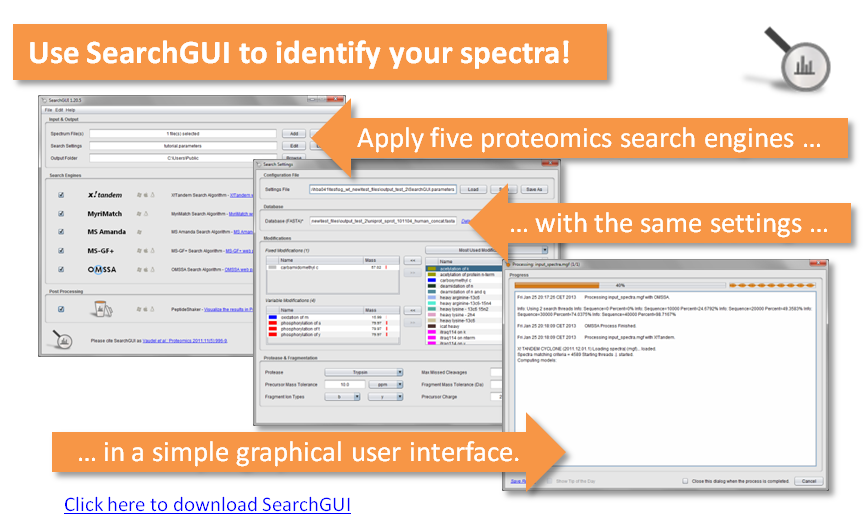
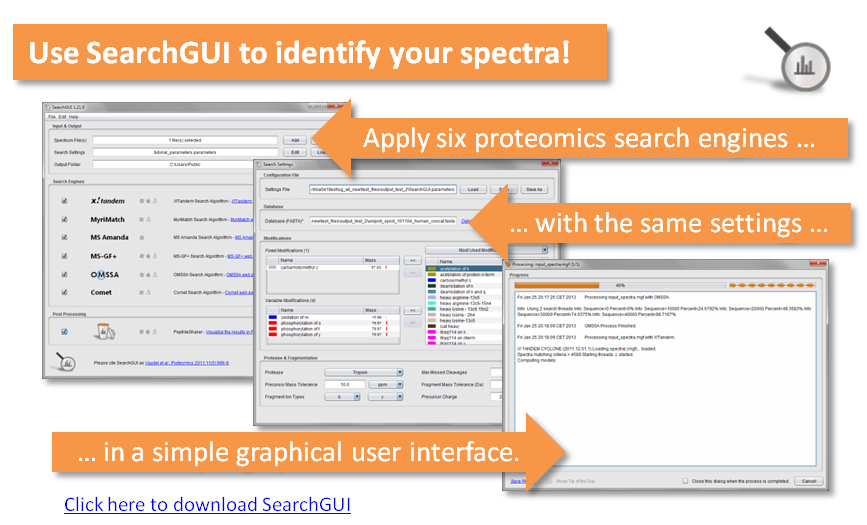
Fixed a bug in the New Project Dialog where canceling the unzipping still loaded the files. Updated the getting started slides to include Comet. Minor code and JavaDoc cleanups.

Changed region(s): [[0.0311, 0.1829, 0.4048, 0.7314], [0.4048, 0.2438, 0.9343, 0.3048]]

diff --git a/src/main/java/eu/isas/peptideshaker/utils/IdentificationFeaturesGenerator.java b/src/main/java/eu/isas/peptideshaker/utils/IdentificationFeaturesGenerator.java
@@ -11,7 +11,6 @@ import com.compomics.util.experiment.identification.SequenceFactory;
 import com.compomics.util.experiment.identification.matches.PeptideMatch;
 import com.compomics.util.experiment.identification.matches.ProteinMatch;
 import com.compomics.util.experiment.identification.matches.SpectrumMatch;
-import com.compomics.util.experiment.identification.ptm.PtmScore;
 import com.compomics.util.experiment.massspectrometry.Precursor;
 import com.compomics.util.experiment.massspectrometry.SpectrumFactory;
 import com.compomics.util.math.statistics.Distribution;
@@ -617,6 +616,7 @@ public class IdentificationFeaturesGenerator {
      * @param spectrumCountingPreferences the spectrum counting preferences
      * @param enzyme the enzyme used
      * @param maxPepLength the maximal length accepted for a peptide
+     * @param sequenceMatchingPreferences the sequence matching preferences
      *
      * @return the spectrum counting index
      * @throws IOException
@@ -738,6 +738,7 @@ public class IdentificationFeaturesGenerator {
      * @throws InterruptedException
      * @throws SQLException
      * @throws ClassNotFoundException
+     * @throws org.apache.commons.math.MathException
      */
     public Double getObservableCoverage(String proteinMatchKey) throws IllegalArgumentException, SQLException, IOException, ClassNotFoundException, InterruptedException, MathException {
         Double result = (Double) identificationFeaturesCache.getObject(IdentificationFeaturesCache.ObjectType.expected_coverage, proteinMatchKey);
@@ -769,6 +770,7 @@ public class IdentificationFeaturesGenerator {
      * @throws InterruptedException
      * @throws SQLException
      * @throws ClassNotFoundException
+     * @throws org.apache.commons.math.MathException
      */
     public void updateObservableCoverage(String proteinMatchKey) throws IllegalArgumentException, SQLException, IOException, ClassNotFoundException, InterruptedException, MathException {
         Double result = estimateObservableCoverage(proteinMatchKey);
@@ -1384,7 +1386,7 @@ public class IdentificationFeaturesGenerator {
     }
 
     /**
-     * Clears the spectrum counting data in cache
+     * Clears the spectrum counting data in cache.
      */
     public void clearSpectrumCounting() {
         identificationFeaturesCache.removeObjects(IdentificationFeaturesCache.ObjectType.spectrum_counting);
@@ -1393,7 +1395,7 @@ public class IdentificationFeaturesGenerator {
     /**
      * Returns a summary of all PTMs present on the sequence confidently
      * assigned to an amino acid. Example: SEQVEM&lt;mox&gt;CE gives Oxidation
-     * of M (M6)
+     * of M (M6).
      *
      * @param proteinKey the key of the protein match of interest
      *
@@ -1417,6 +1419,7 @@ public class IdentificationFeaturesGenerator {
         boolean firstPtm = true;
         ArrayList<String> ptms = psPtmScores.getConfidentlyLocalizedPtms();
         Collections.sort(ptms);
+
         for (String ptm : ptms) {
             if (firstPtm) {
                 firstPtm = false;
@@ -1440,6 +1443,7 @@ public class IdentificationFeaturesGenerator {
             }
             result.append(")");
         }
+
         return result.toString();
     }
 
@@ -1494,8 +1498,6 @@ public class IdentificationFeaturesGenerator {
     }
 
     /**
-     *
-     * /**
      * Returns the number of confidently localized variable modifications.
      *
      * @param proteinKey the key of the protein match of interest
@@ -1531,6 +1533,7 @@ public class IdentificationFeaturesGenerator {
             result.append(psPtmScores.getConfidentSitesForPtm(ptm).size());
             result.append(")");
         }
+
         return result.toString();
     }
 
@@ -1649,19 +1652,25 @@ public class IdentificationFeaturesGenerator {
         PSPtmScores psPtmScores = new PSPtmScores();
         psPtmScores = (PSPtmScores) proteinMatch.getUrParam(psPtmScores);
         HashMap<Integer, ArrayList<String>> reportPerSite = new HashMap<Integer, ArrayList<String>>();
+
         for (String ptmName : targetedPtms) {
+
             HashMap<Integer, ArrayList<Integer>> sites = psPtmScores.getAmbiguousModificationsSites(ptmName);
             ArrayList<Integer> representativeSites = new ArrayList<Integer>(sites.keySet());
             Collections.sort(representativeSites);
+
             for (int representativeSite : representativeSites) {
+
                 StringBuilder reportAtSite = new StringBuilder();
                 if (reportAtSite.length() > 0) {
                     reportAtSite.append(", ");
                 }
+
                 reportAtSite.append(representativeSite).append("-{");
                 ArrayList<Integer> secondarySites = sites.get(representativeSite);
                 Collections.sort(secondarySites);
                 boolean firstSecondarySite = true;
+
                 for (Integer secondarySite : secondarySites) {
                     if (firstSecondarySite) {
                         firstSecondarySite = false;
@@ -1670,6 +1679,7 @@ public class IdentificationFeaturesGenerator {
                     }
                     reportAtSite.append(secondarySite);
                 }
+
                 reportAtSite.append("}");
 
                 ArrayList<String> reportsAtSite = reportPerSite.get(representativeSite);
@@ -1680,9 +1690,11 @@ public class IdentificationFeaturesGenerator {
                 reportsAtSite.add(reportAtSite.toString());
             }
         }
+
         ArrayList<Integer> sites = new ArrayList<Integer>(reportPerSite.keySet());
         Collections.sort(sites);
         StringBuilder result = new StringBuilder();
+
         for (int site : sites) {
             if (result.length() > 0) {
                 result.append(", ");
@@ -1693,6 +1705,7 @@ public class IdentificationFeaturesGenerator {
                 result.append(siteReport);
             }
         }
+
         return result.toString();
     }
 
@@ -1721,12 +1734,14 @@ public class IdentificationFeaturesGenerator {
         StringBuilder result = new StringBuilder();
         ArrayList<String> ptms = psPtmScores.getAmbiguouslyLocalizedPtms();
         Collections.sort(ptms);
+
         for (String ptmName : ptms) {
             if (result.length() > 0) {
                 result.append(", ");
             }
             result.append(ptmName).append(" (").append(psPtmScores.getAmbiguousModificationsSites(ptmName).size()).append(")");
         }
+
         return result.toString();
     }
 
@@ -1754,6 +1769,7 @@ public class IdentificationFeaturesGenerator {
         PSPtmScores psPtmScores = new PSPtmScores();
         psPtmScores = (PSPtmScores) proteinMatch.getUrParam(psPtmScores);
         ArrayList<Integer> sites = new ArrayList<Integer>();
+
         for (String ptmName : targetedPtms) {
             HashMap<Integer, ArrayList<Integer>> ptmAmbiguousSites = psPtmScores.getAmbiguousModificationsSites(ptmName);
             for (int site : ptmAmbiguousSites.keySet()) {
@@ -1762,6 +1778,7 @@ public class IdentificationFeaturesGenerator {
                 }
             }
         }
+
         return sites.size() + "";
     }
 
@@ -1777,6 +1794,7 @@ public class IdentificationFeaturesGenerator {
      * @throws ClassNotFoundException
      */
     public String getModifiedSequence(String proteinKey) throws IllegalArgumentException, SQLException, IOException, ClassNotFoundException, InterruptedException {
+
         ProteinMatch proteinMatch = identification.getProteinMatch(proteinKey);
         String sequence = sequenceFactory.getProtein(proteinMatch.getMainMatch()).getSequence();
         PSPtmScores psPtmScores = new PSPtmScores();

diff --git a/src/main/java/eu/isas/peptideshaker/export/exportfeatures/PsProteinFeature.java b/src/main/java/eu/isas/peptideshaker/export/exportfeatures/PsProteinFeature.java
@@ -23,24 +23,24 @@ public enum PsProteinFeature implements ExportFeature {
     coverage("Coverage [%]", "Sequence coverage in percent of the protein designed by the main accession.", false),
     possible_coverage("Possible Coverage [%]", "Possible sequence coverage in percent of the protein designed by the main accession according to the search settings.", false),
     non_enzymatic("Non-Enzymatic", "Indicates how many non-enzymatic peptides were found for this protein match.", false),
-    spectrum_counting_nsaf("Spectrum Counting NSAF ", "Normalized Spectrum Abundance Factor (NSAF)", false),
-    spectrum_counting_empai("Spectrum Counting emPAI", "exponentially modified Protein Abundance Index (emPAI)", false),
+    spectrum_counting_nsaf("Spectrum Counting NSAF ", "Normalized Spectrum Abundance Factor (NSAF).", false),
+    spectrum_counting_empai("Spectrum Counting emPAI", "exponentially modified Protein Abundance Index (emPAI).", false),
     confident_modification_sites("Confidently Localized Modification Sites", "List of the sites where a variable modification was confidently localized.", false),
     confident_modification_sites_number("# Confidently Localized Modification Sites", "Number of sites where a variable modification was confidently localized.", false),
     ambiguous_modification_sites("Ambiguously Localized Modification Sites", "List of the sites where ambiguously localized variable modification could possibly be located.", false),
-    ambiguous_modification_sites_number("# Ambiguously Localized Modification Sites", "Number of ambiguously localized modifications.", false),
+    ambiguous_modification_sites_number("#Ambiguously Localized Modification Sites", "Number of ambiguously localized modifications.", false),
     confident_phosphosites("Confident Phosphosites", "List of the sites where a phosphorylation was confidently localized.", false),
-    confident_phosphosites_number("# Confident Phosphosites", "Number of sites where a phosphorylation was confidently localized.", false),
+    confident_phosphosites_number("#Confident Phosphosites", "Number of sites where a phosphorylation was confidently localized.", false),
     ambiguous_phosphosites("Ambiguous Phosphosites", "List of the sites where a phosphorylation was ambiguously localized.", false),
-    ambiguous_phosphosites_number("# Ambiguous Phosphosites", "Number of sites where a phosphorylation was ambiguously localized.", false),
+    ambiguous_phosphosites_number("#Ambiguous Phosphosites", "Number of sites where a phosphorylation was ambiguously localized.", false),
     pi("PI", "Protein Inference status of the protein group.", false),
     other_proteins("Secondary Accessions", "Other accessions in the protein group (alphabetical order).", false),
     protein_group("Protein Group", "The complete protein group (alphabetical order).", false),
     validated_peptides("#Validated Peptides", "Number of validated peptides.", false),
     peptides("#Peptides", "Total number of peptides.", false),
     unique_peptides("#Unique", "Total number of peptides unique to this protein group.", false),
-    validated_psms("#Validated PSMs", "Number of validated PSMs", false),
-    psms("#PSMs", "Number of PSMs", false),
+    validated_psms("#Validated PSMs", "Number of validated PSMs.", false),
+    psms("#PSMs", "Number of PSMs.", false),
     score("Score", "Score of the protein group.", true),
     raw_score("Raw Score", "Protein group score before log transformation.", true),
     confidence("Confidence", "Confidence in percent associated to the protein group.", false),

diff --git a/src/main/java/eu/isas/peptideshaker/gui/NewDialog.java b/src/main/java/eu/isas/peptideshaker/gui/NewDialog.java
@@ -2068,20 +2068,22 @@ public class NewDialog extends javax.swing.JDialog implements SearchSettingsDial
         try {
             ZipUtils.unzip(file, destinationFolder, progressDialog);
             progressDialog.setSecondaryProgressCounterIndeterminate(true);
-            File dataFolder = new File(destinationFolder, PeptideShaker.DATA_DIRECTORY);
-            if (dataFolder.exists() && !dataFolders.contains(dataFolder)) {
-                dataFolders.add(dataFolder);
-            }
-            dataFolder = new File(destinationFolder, "mgf");
-            if (dataFolder.exists() && !dataFolders.contains(dataFolder)) {
-                dataFolders.add(dataFolder);
-            }
-            dataFolder = new File(destinationFolder, "fasta");
-            if (dataFolder.exists() && !dataFolders.contains(dataFolder)) {
-                dataFolders.add(dataFolder);
-            }
-            for (File zippedFile : destinationFolder.listFiles()) {
-                loadIdFile(zippedFile, parameterFiles, inputFiles);
+            if (!progressDialog.isRunCanceled()) {
+                File dataFolder = new File(destinationFolder, PeptideShaker.DATA_DIRECTORY);
+                if (dataFolder.exists() && !dataFolders.contains(dataFolder)) {
+                    dataFolders.add(dataFolder);
+                }
+                dataFolder = new File(destinationFolder, "mgf");
+                if (dataFolder.exists() && !dataFolders.contains(dataFolder)) {
+                    dataFolders.add(dataFolder);
+                }
+                dataFolder = new File(destinationFolder, "fasta");
+                if (dataFolder.exists() && !dataFolders.contains(dataFolder)) {
+                    dataFolders.add(dataFolder);
+                }
+                for (File zippedFile : destinationFolder.listFiles()) {
+                    loadIdFile(zippedFile, parameterFiles, inputFiles);
+                }
             }
         } catch (Exception e) {
             JOptionPane.showMessageDialog(peptideShakerGUI,

diff --git a/src/main/java/eu/isas/peptideshaker/export/sections/PsProteinSection.java b/src/main/java/eu/isas/peptideshaker/export/sections/PsProteinSection.java
@@ -395,7 +395,7 @@ public class PsProteinSection {
                 Double sequenceCoverageDoubtful = 100 * sequenceCoverage.get(MatchValidationLevel.doubtful.getIndex());
                 Double validatedCoverage = sequenceCoverageConfident + sequenceCoverageDoubtful;
                 Double value = 100 * validatedCoverage;
-                return Util.roundDouble(value, 2) + "";
+                return Util.roundDouble(value, 2) + ""; // @TODO: this number can get bigger than 100%!!!
             case possible_coverage:
                 value = 100 * identificationFeaturesGenerator.getObservableCoverage(proteinKey);
                 return Util.roundDouble(value, 2) + "";
